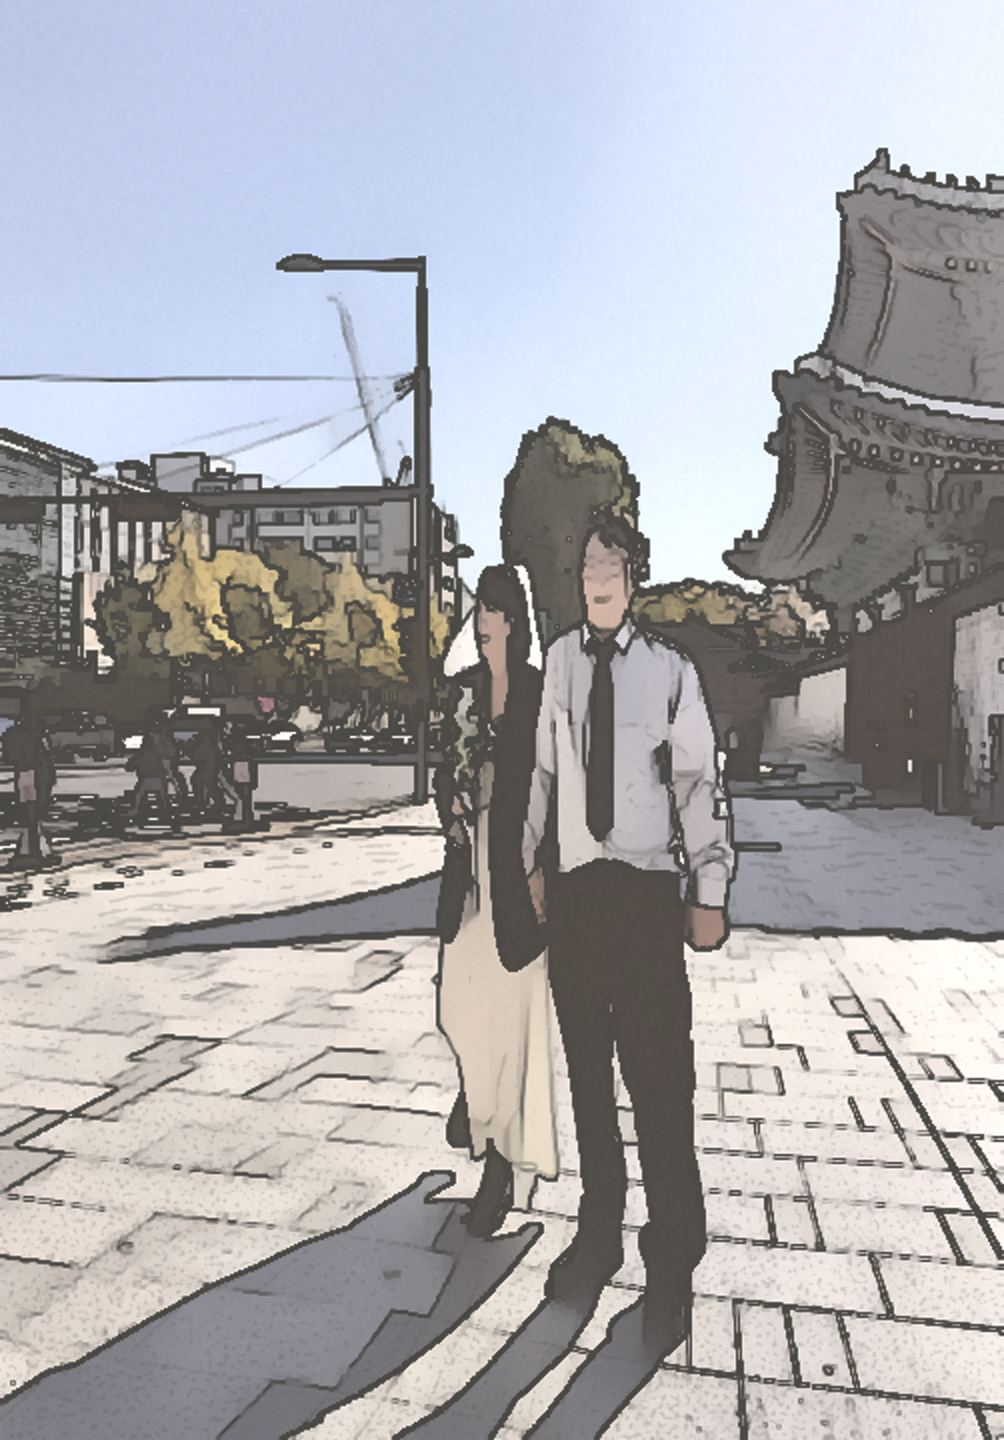
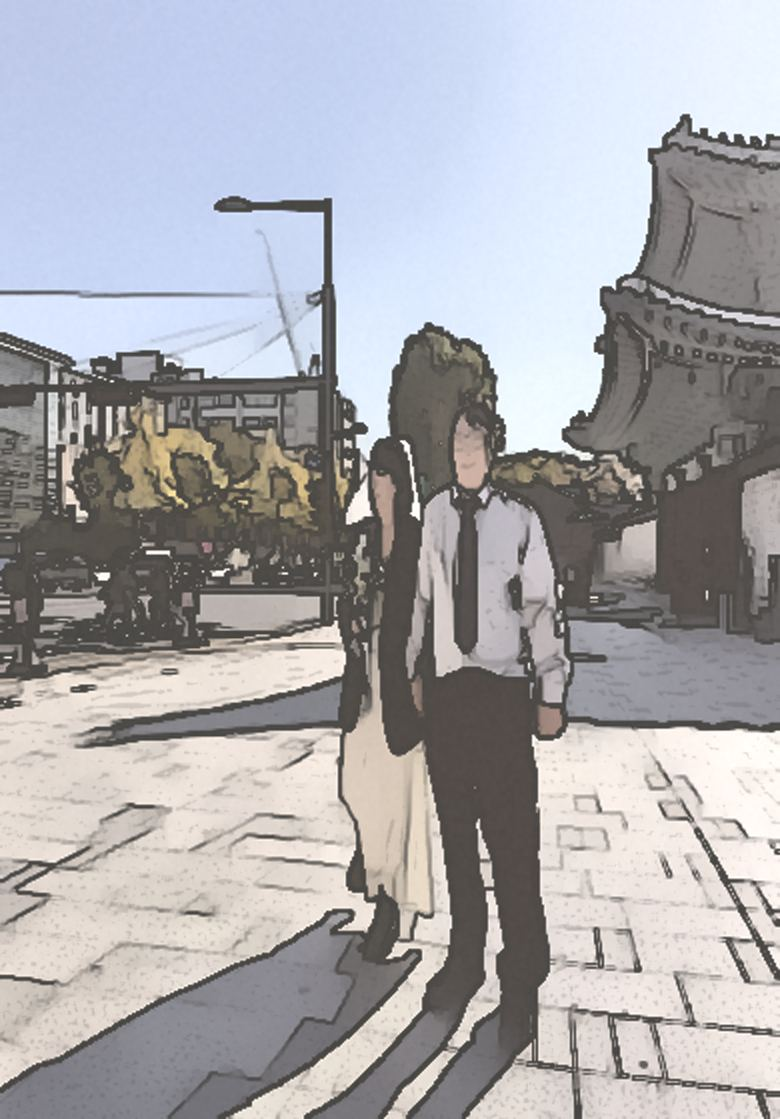
새 VISA No.4 사진(25, 돌담길 손잡은 사진) 삭제
여권·앨범·책에서 제외. 남은 사진 46장, 비자 6장.

Claude-Session: https://claude.ai/code/session_018qxtHPCimKmFgYnWh3pAgM

diff --git a/gyusooandsehwa/passport/index.html b/gyusooandsehwa/passport/index.html
@@ -693,7 +693,7 @@
 <script src="https://www.gstatic.com/firebasejs/10.12.2/firebase-app-compat.js"></script>
 <script src="https://www.gstatic.com/firebasejs/10.12.2/firebase-firestore-compat.js"></script>
 <script>
-var PHOTOS = [[106, "Fate walks through silver grass"], [97, "Joy finds us anywhere"], [136, "Time-worn doors, new vows"], [25, "Holding on, holding hands"], [19, "All roads led here"], [127, "Choosing you, every single day"], [210, "Of all paths, I chose you"], [209, "A kiss that says forever"], [214, "Love, by heart"], [204, "Every sign points to us"], [211, "Two hearts, one horizon"], [212, "Still choosing you, daily"], [213, "Golden hours with you"], [208, "Let's run into forever"], [201, "Home is in your arms"], [202, "Two paths became one"], [203, "Laughing into forever"], [216, "Hand in hand, for life"], [217, "Coffee and forever"], [218, "Walk with me"], [221, "Two hearts, one home"], [222, "Coffee for two, always"], [224, "Laughter is our language"], [225, "You make ordinary golden"], [226, "Walk with me, always"], [227, "A promise, face to face"], [228, "Running toward forever"], [229, "Old souls, new beginning"], [234, "Love lives in the details"], [236, "Hand in hand, for life ♡"], [237, "Every road led to you"], [238, "Looking back, still us"], [239, "Side by side, always"], [240, "Our story, just begun"], [241, "Veil in the autumn wind"], [242, "Walking into our vows"], [243, "Palace gates, open hearts"], [244, "Side by side, sunlit"], [245, "Every crosswalk, together"], [246, "The world can wait"], [247, "Hand in hand, unhurried"], [248, "Two shadows, one path"], [249, "Under old eaves, new love"], [250, "Looking up, together"], [251, "Eyes that say forever"], [252, "Before the vow, a smile"], [253, "Quiet promises"]];
+var PHOTOS = [[106, "Fate walks through silver grass"], [97, "Joy finds us anywhere"], [136, "Time-worn doors, new vows"], [19, "All roads led here"], [127, "Choosing you, every single day"], [210, "Of all paths, I chose you"], [209, "A kiss that says forever"], [214, "Love, by heart"], [204, "Every sign points to us"], [211, "Two hearts, one horizon"], [212, "Still choosing you, daily"], [213, "Golden hours with you"], [208, "Let's run into forever"], [201, "Home is in your arms"], [202, "Two paths became one"], [203, "Laughing into forever"], [216, "Hand in hand, for life"], [217, "Coffee and forever"], [218, "Walk with me"], [221, "Two hearts, one home"], [222, "Coffee for two, always"], [224, "Laughter is our language"], [225, "You make ordinary golden"], [226, "Walk with me, always"], [227, "A promise, face to face"], [228, "Running toward forever"], [229, "Old souls, new beginning"], [234, "Love lives in the details"], [236, "Hand in hand, for life ♡"], [237, "Every road led to you"], [238, "Looking back, still us"], [239, "Side by side, always"], [240, "Our story, just begun"], [241, "Veil in the autumn wind"], [242, "Walking into our vows"], [243, "Palace gates, open hearts"], [244, "Side by side, sunlit"], [245, "Every crosswalk, together"], [246, "The world can wait"], [247, "Hand in hand, unhurried"], [248, "Two shadows, one path"], [249, "Under old eaves, new love"], [250, "Looking up, together"], [251, "Eyes that say forever"], [252, "Before the vow, a smile"], [253, "Quiet promises"]];
 (function () {
   function $(id) { return document.getElementById(id); }
   function src(n) { return '../s/' + (n < 10 ? '0' : '') + n + '.jpg'; }
@@ -722,7 +722,6 @@ var PHOTOS = [[106, "Fate walks through silver grass"], [97, "Joy finds us anywh
     { n: 106, c: 'var(--stamp-g)', r: '-14deg', round: true, t: 'SILVER GRASS', s: 'SEOUL', d: 'ADMITTED', pos: 'top:14px;right:12px' },
     { n: 97,  c: 'var(--stamp-b)', r: '8deg', t: 'N SEOUL TOWER', s: 'NAMSAN · SEOUL', d: 'ARRIVED', pos: 'top:18px;left:14px' },
     { n: 136, c: 'var(--stamp-r)', r: '-6deg', t: 'OLD TOWN', s: 'VINTAGE ATELIER', d: 'ENTRY', pos: 'top:26px;left:18px' },
-    { n: 25,  c: 'var(--stamp-p)', r: '12deg', round: true, t: 'STONE WALL', s: 'ROAD · SEOUL', d: 'VISITED', pos: 'top:16px;left:12px' },
     { n: 19,  c: 'var(--stamp-b)', r: '-10deg', t: 'PALACE GATE', s: 'SEOUL', d: 'PASSED', pos: 'top:20px;right:14px' },
     { n: 127, c: 'var(--stamp-r)', r: '9deg', round: true, t: 'HAN RIVER', s: 'HANNAM 1.3KM', d: 'DEPARTED', pos: 'top:16px;right:12px' },
     { n: 234, c: 'var(--stamp-g)', r: '-8deg', round: true, t: 'CAFE TERRACE', s: 'JAHAMUN-RO', d: 'SEATED', pos: 'top:12px;right:10px' }

diff --git a/gyusooandsehwa/album/index.html b/gyusooandsehwa/album/index.html
@@ -366,8 +366,8 @@
   var IS_MOBILE = /Android|iPhone|iPad|iPod/i.test(navigator.userAgent);
 
   /* 데이터 */
-  var PLACES = [{"n": 106, "ko": "억새밭", "en": "Fate walks through silver grass"}, {"n": 97, "ko": "남산", "en": "Joy finds us anywhere"}, {"n": 136, "ko": "자하문로 고전의상실", "en": "Time-worn doors, new vows"}, {"n": 25, "ko": "돌담길", "en": "Holding on, holding hands"}, {"n": 19, "ko": "궁 앞 광장", "en": "All roads led here"}, {"n": 127, "ko": "한강변", "en": "Choosing you, every single day"}, {"n": 234, "ko": "카페 테라스", "en": "Love lives in the details"}];
-  var GALLERY = [[106, "Fate walks through silver grass"], [210, "Of all paths, I chose you"], [97, "Joy finds us anywhere"], [209, "A kiss that says forever"], [208, "Let's run into forever"], [136, "Time-worn doors, new vows"], [227, "A promise, face to face"], [25, "Holding on, holding hands"], [236, "Hand in hand, for life"], [19, "All roads led here"], [243, "Palace gates, open hearts"], [251, "Eyes that say forever"], [234, "Love lives in the details"], [201, "Home is in your arms"], [127, "Choosing you, every single day"], [214, "Love, by heart"]];
+  var PLACES = [{"n": 106, "ko": "억새밭", "en": "Fate walks through silver grass"}, {"n": 97, "ko": "남산", "en": "Joy finds us anywhere"}, {"n": 136, "ko": "자하문로 고전의상실", "en": "Time-worn doors, new vows"}, {"n": 19, "ko": "궁 앞 광장", "en": "All roads led here"}, {"n": 127, "ko": "한강변", "en": "Choosing you, every single day"}, {"n": 234, "ko": "카페 테라스", "en": "Love lives in the details"}];
+  var GALLERY = [[106, "Fate walks through silver grass"], [210, "Of all paths, I chose you"], [97, "Joy finds us anywhere"], [209, "A kiss that says forever"], [208, "Let's run into forever"], [136, "Time-worn doors, new vows"], [227, "A promise, face to face"], [236, "Hand in hand, for life"], [19, "All roads led here"], [243, "Palace gates, open hearts"], [251, "Eyes that say forever"], [234, "Love lives in the details"], [201, "Home is in your arms"], [127, "Choosing you, every single day"], [214, "Love, by heart"]];
   var ACCTS = [
     { who: '신랑', name: '손규수', bank: '부산은행', toss: '부산은행', kakao: '', no: '166-12-011157-6' },
     { who: '신랑 어머니', name: '이수자', bank: '경남은행', toss: '경남은행', kakao: '', no: '679-21-003880-9' },
